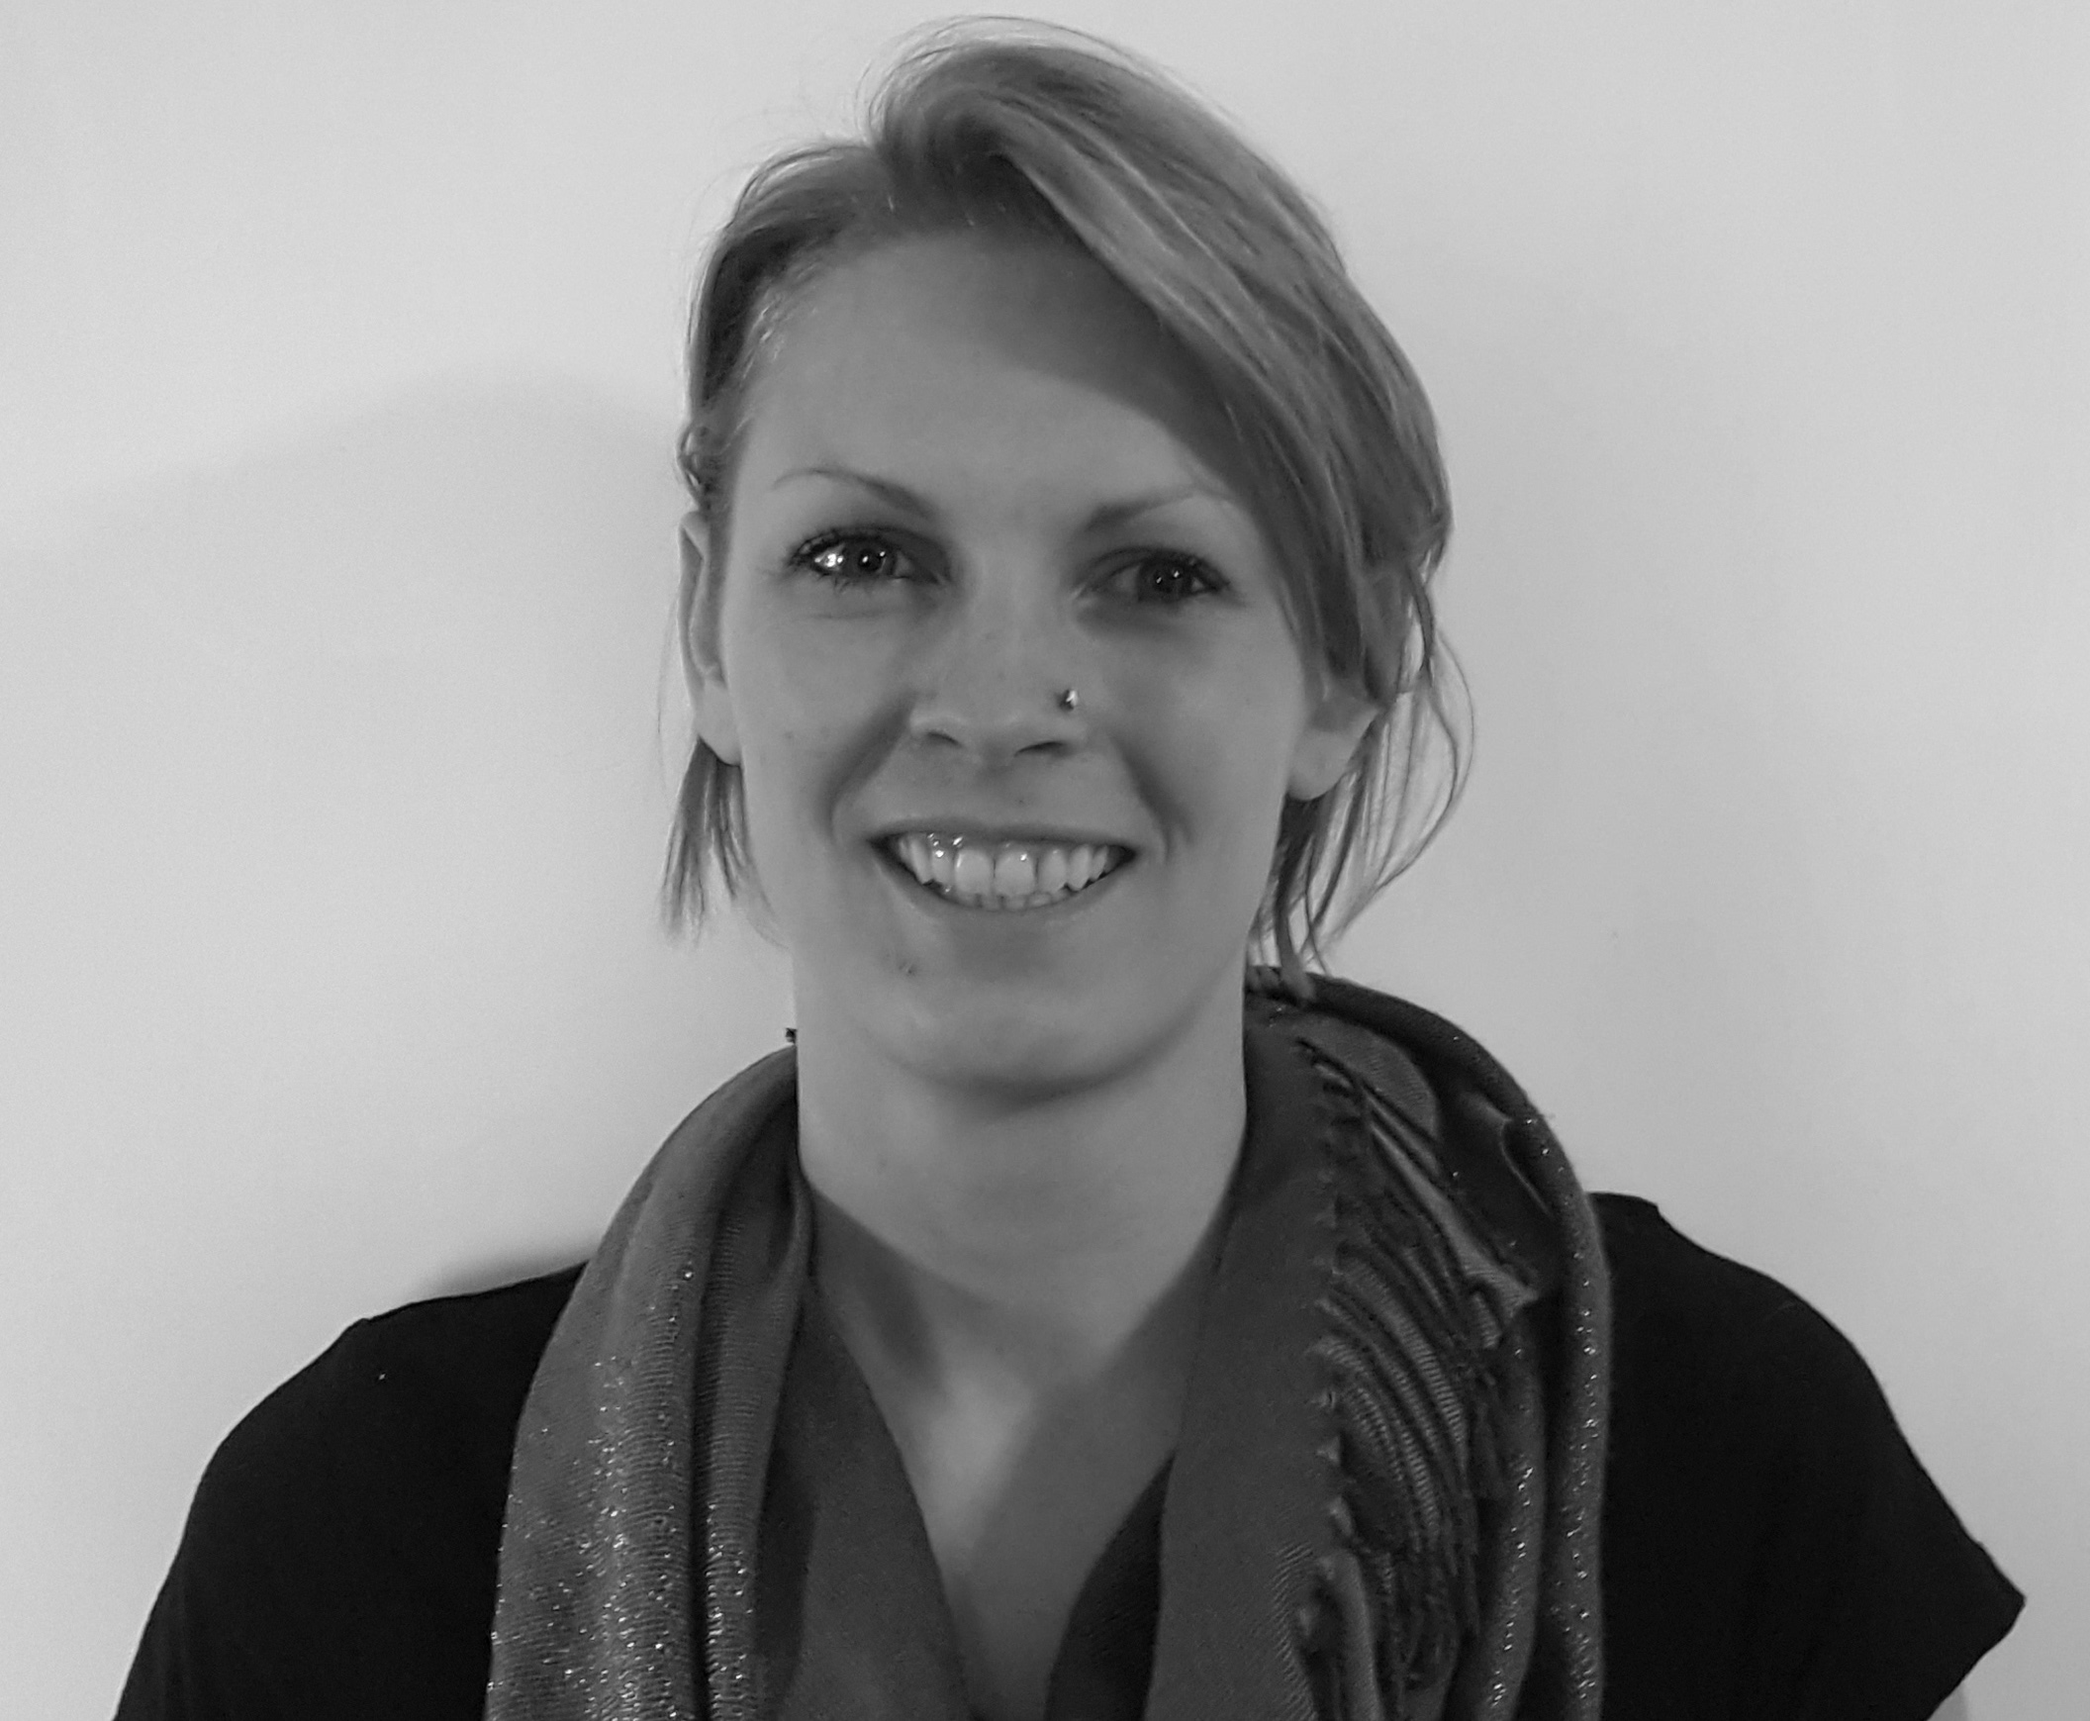
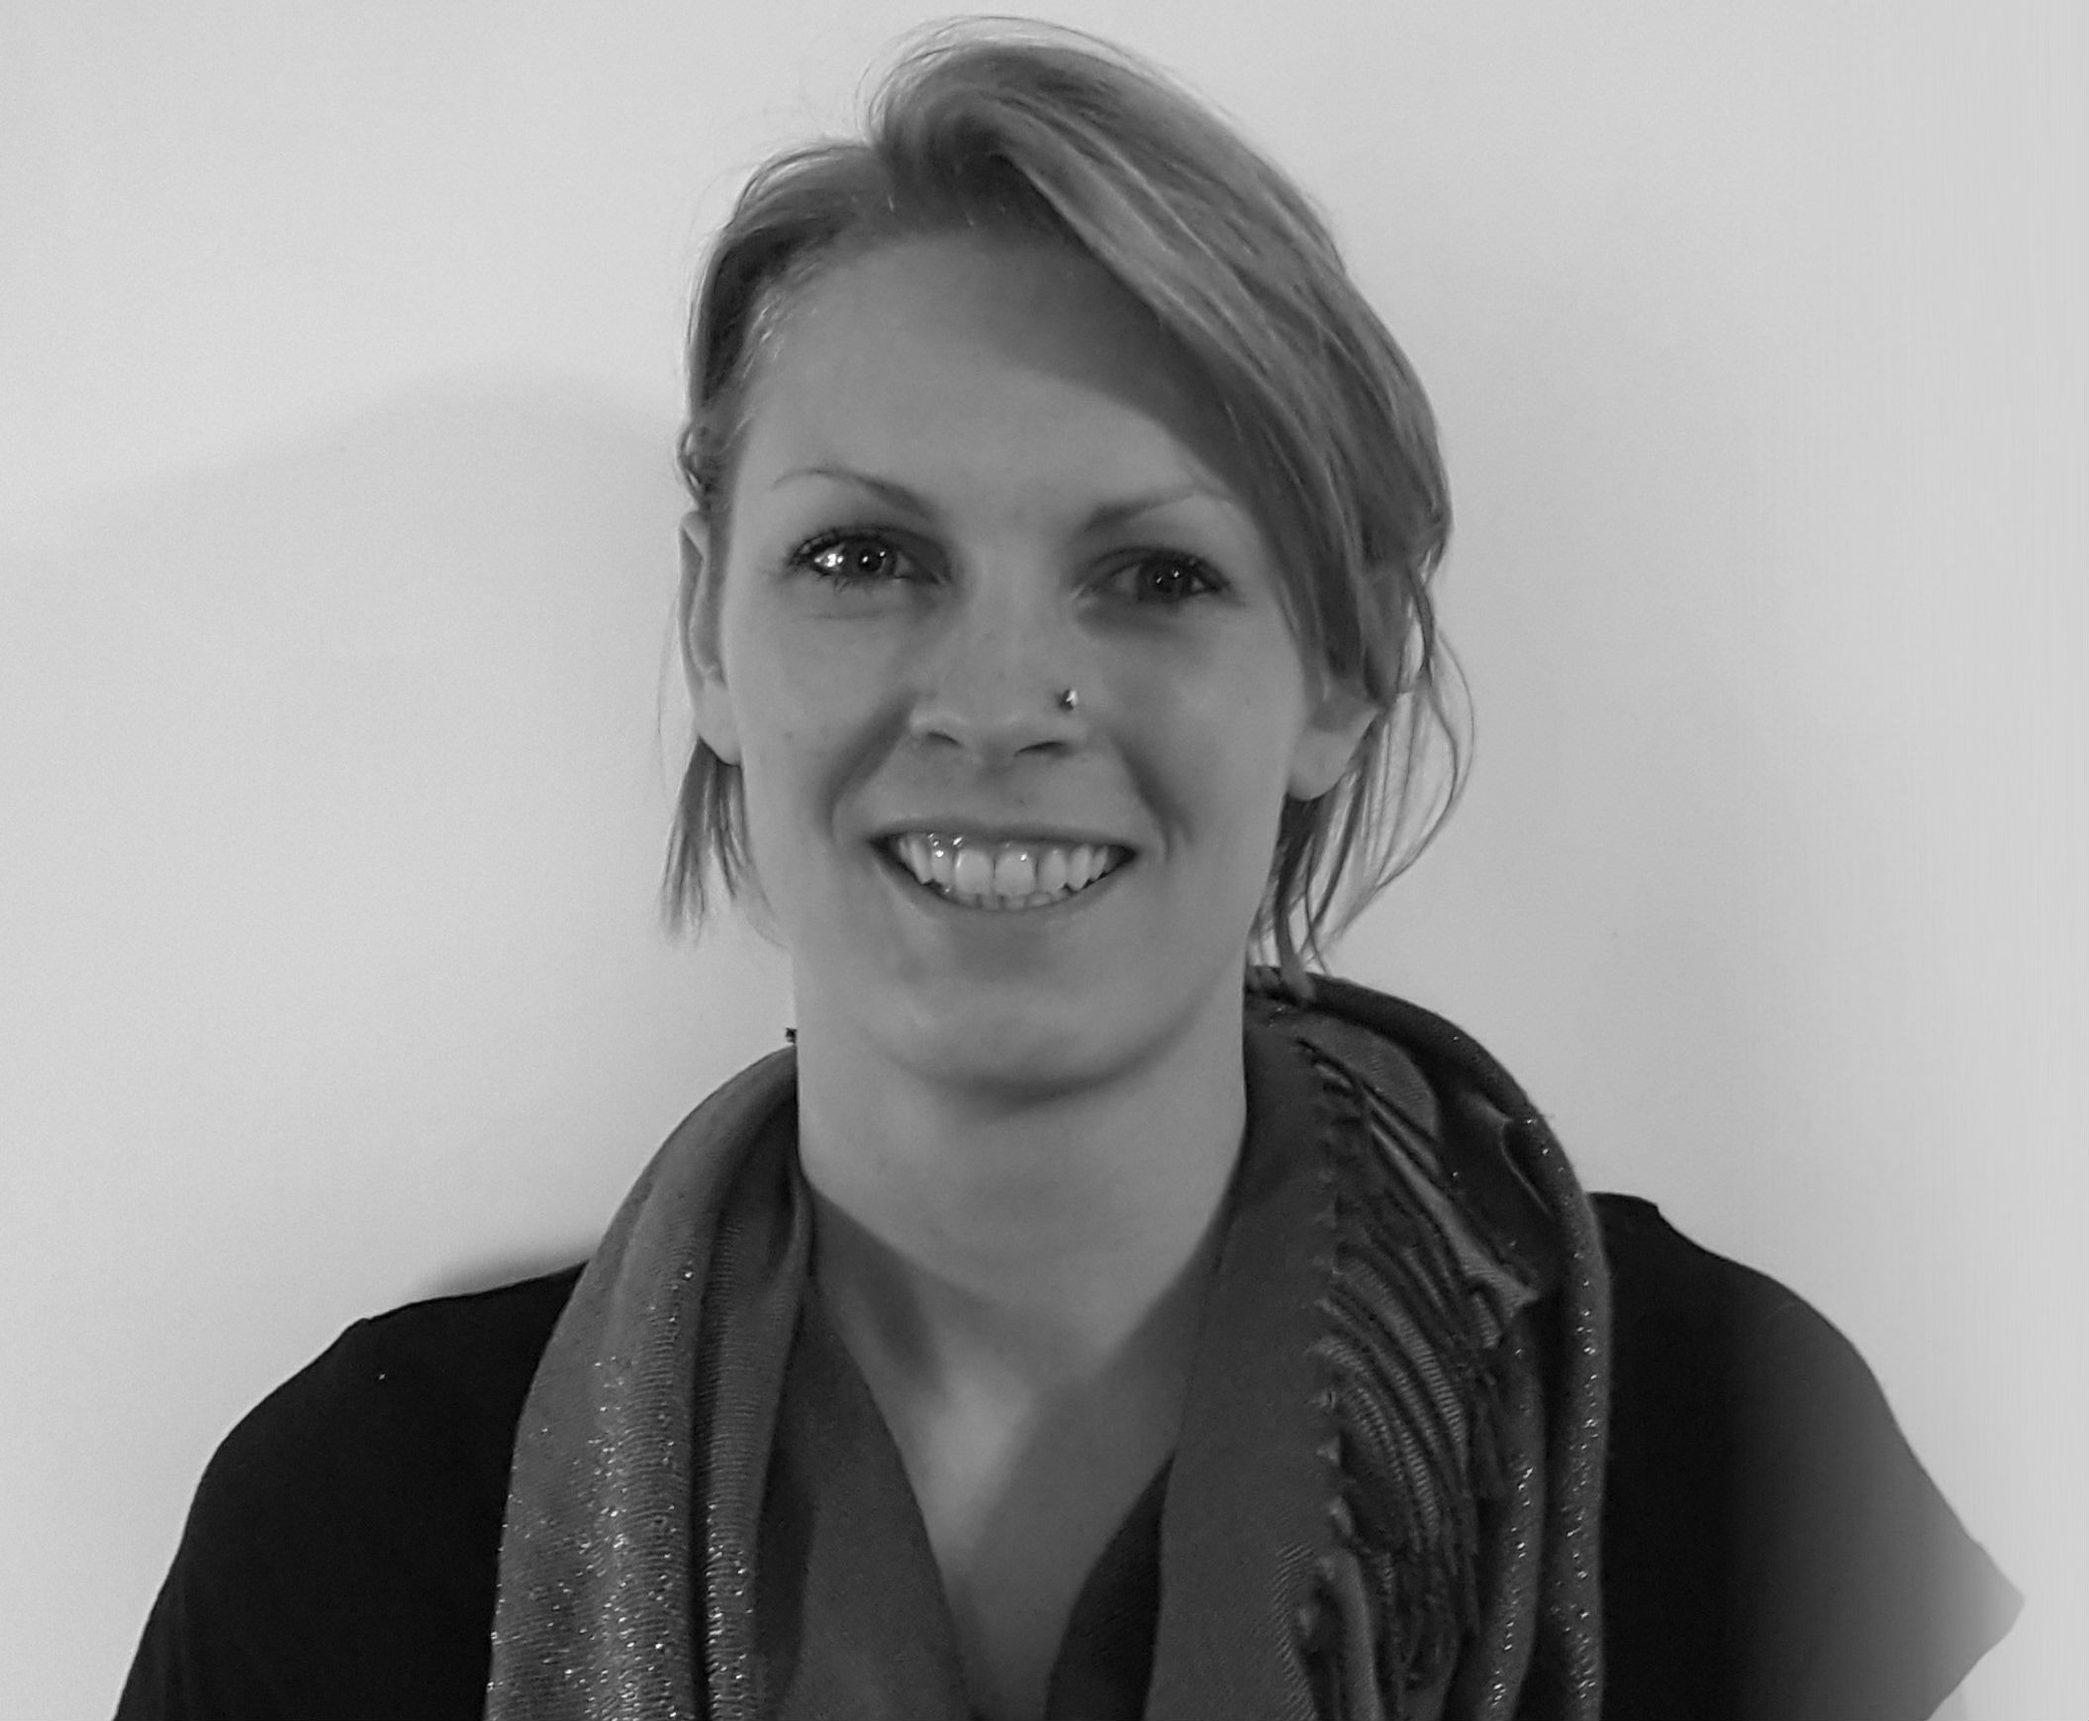
Trying to push to heroku

Changed region(s): [[0.8314, 0.7453, 1.0, 1.0]]

diff --git a/styles.css b/styles.css
@@ -30,18 +30,19 @@ p {
 
 .container {
   display: flex;
-  background-color: #D9D9D9;
+  background-color: #D2D2D2;
   color: #4C4D4D;
 }
 
-.image {
-  width: 50%;
-  height: 100vh;
+ .image {
+   width: 600px;
+   zoom: 70%;
   display: flex;
   justify-content: center;
   align-items: center;
-  overflow: hidden
+  overflow: visible;
 }
+
 .image img {
   flex-shrink: 0;
   min-width: 100%;

diff --git a/404.html b/404.html
@@ -1,0 +1,1 @@
+<h1>barf</h1>

diff --git a/index.php b/index.php
@@ -1,0 +1,1 @@
+<?php header( 'Location: /index.html' ) ;  ?>
